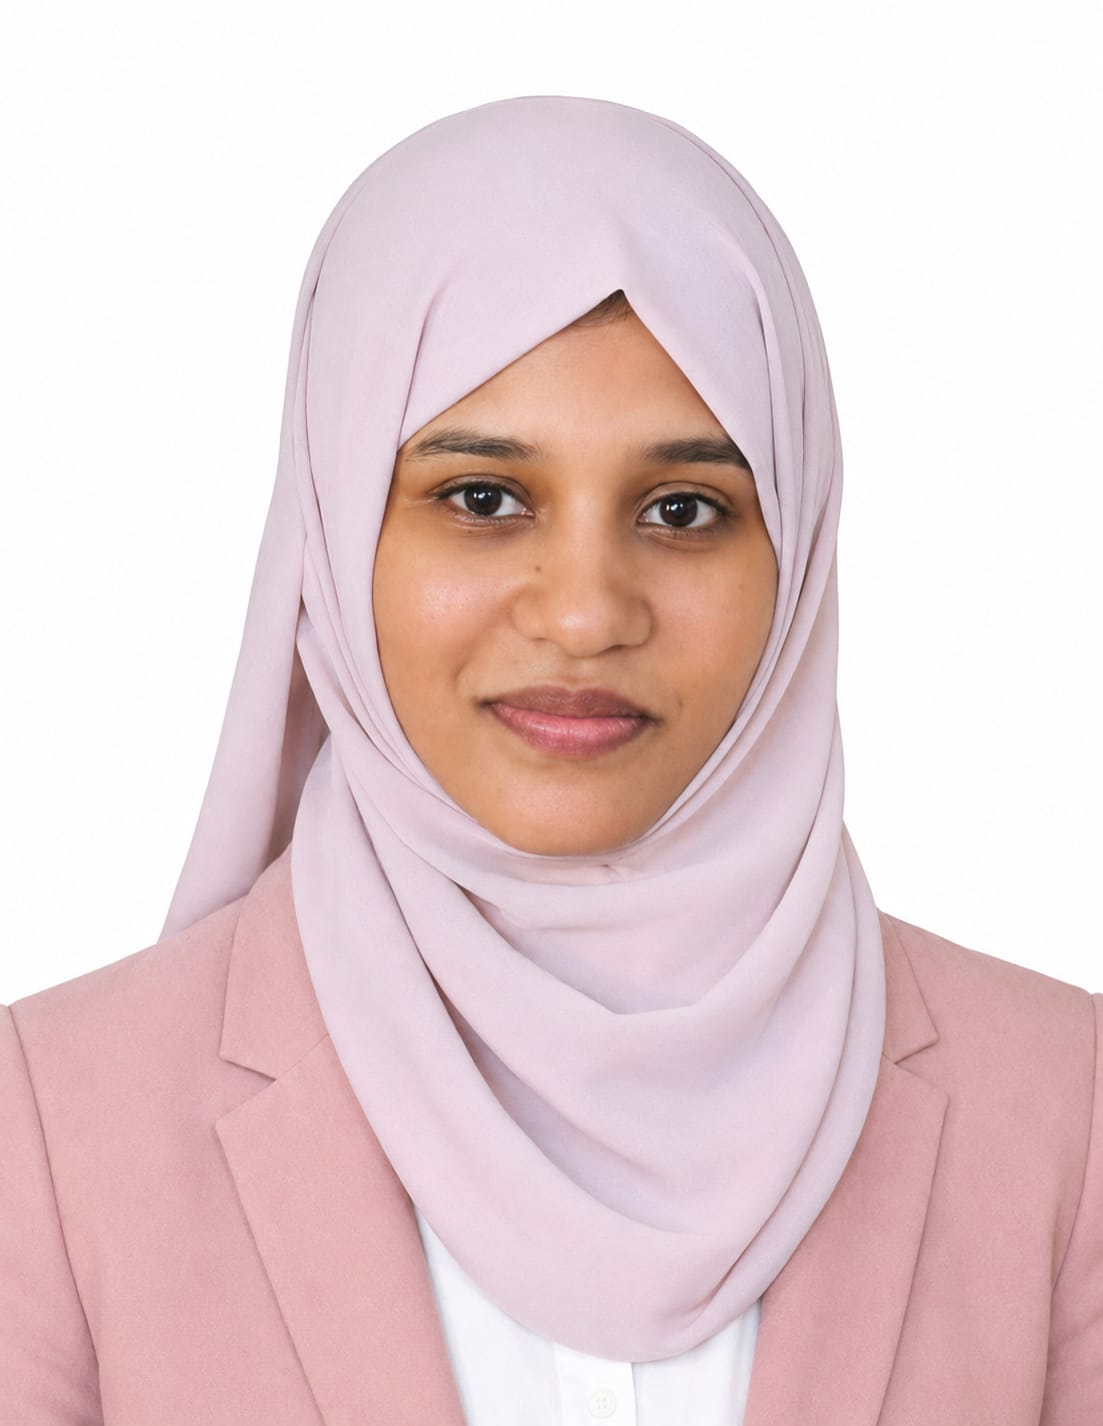
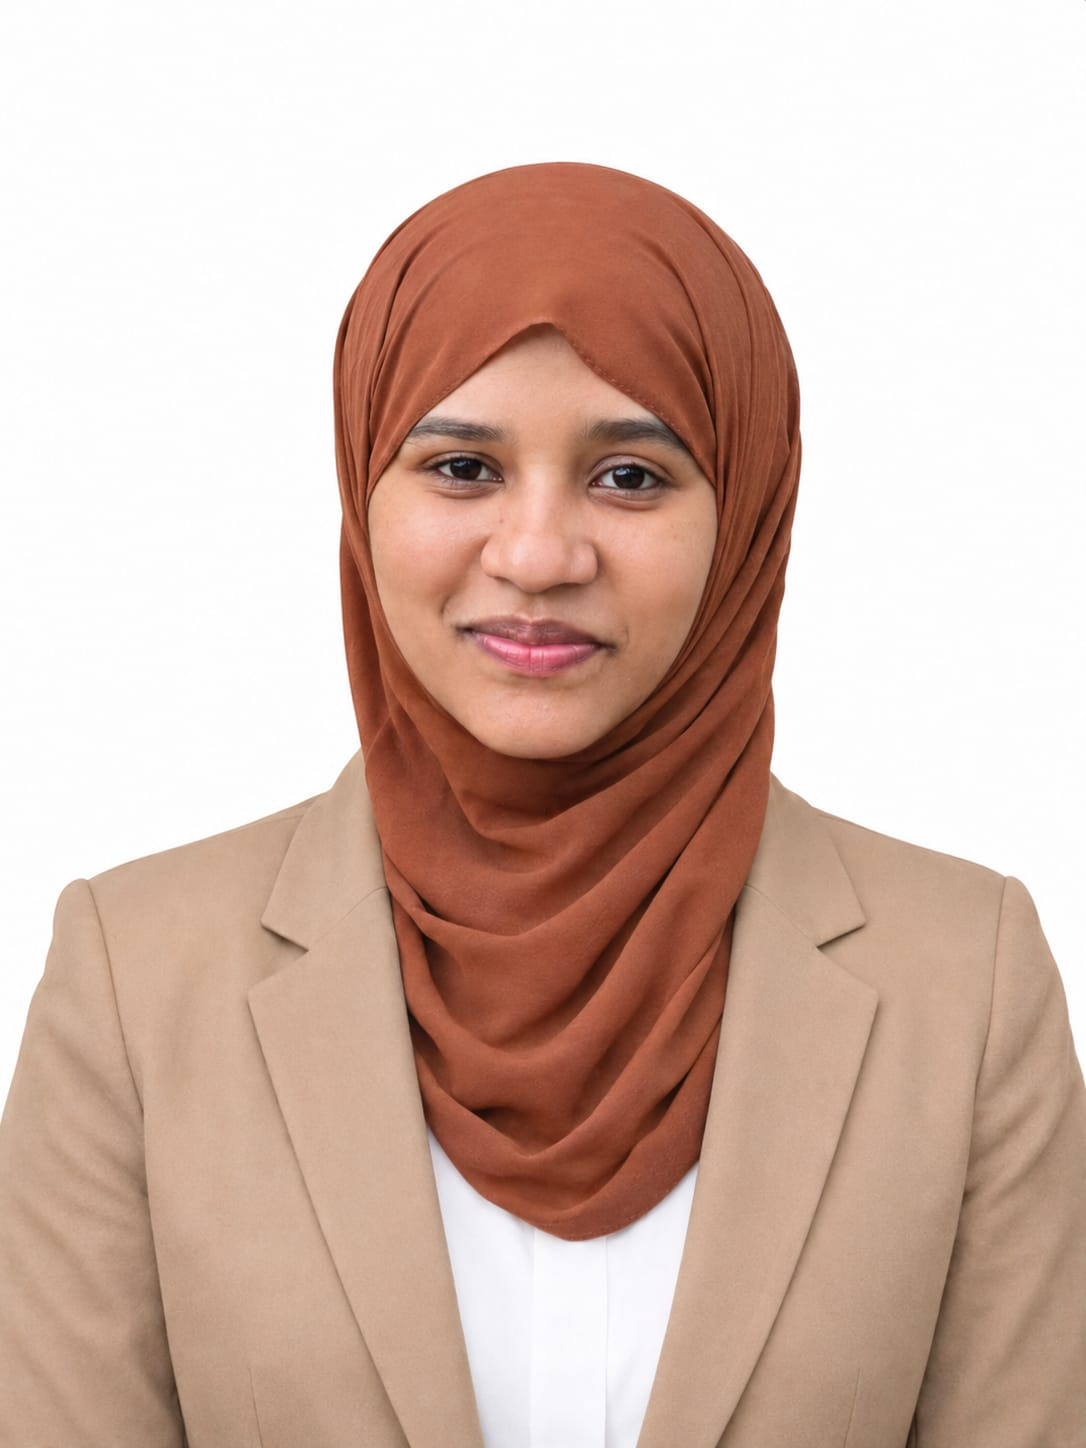
l

diff --git a/app/about/page.tsx b/app/about/page.tsx
@@ -138,9 +138,9 @@ export default function AboutPage() {
             {/* Founder 2 */}
             <div className="flex flex-col items-center group text-center">
               <div className="w-48 h-48 md:w-56 md:h-56 rounded-full overflow-hidden mb-6 shadow-xl border-4 border-white mx-auto flex items-center justify-center">
-                <Image src="/Director – Media & Communications.jpeg" alt="Hasna Mahin" width={224} height={224} className="w-full h-full object-cover object-[center_top] transition-transform duration-700 group-hover:scale-110" />
+                <Image src="/Director – Media & Communications.jpeg" alt="Hasna Shahul" width={224} height={224} className="w-full h-full object-cover object-[center_top] transition-transform duration-700 group-hover:scale-110" />
               </div>
-              <h3 className="text-2xl font-bold text-[#171717]">Hasna Mahin</h3>
+              <h3 className="text-2xl font-bold text-[#171717]">Hasna Shahul</h3>
               <p className="text-[#A28822] font-bold text-[14px] uppercase tracking-wider mt-2">Director – Media & Communications</p>
             </div>
             {/* Founder 3 */}
